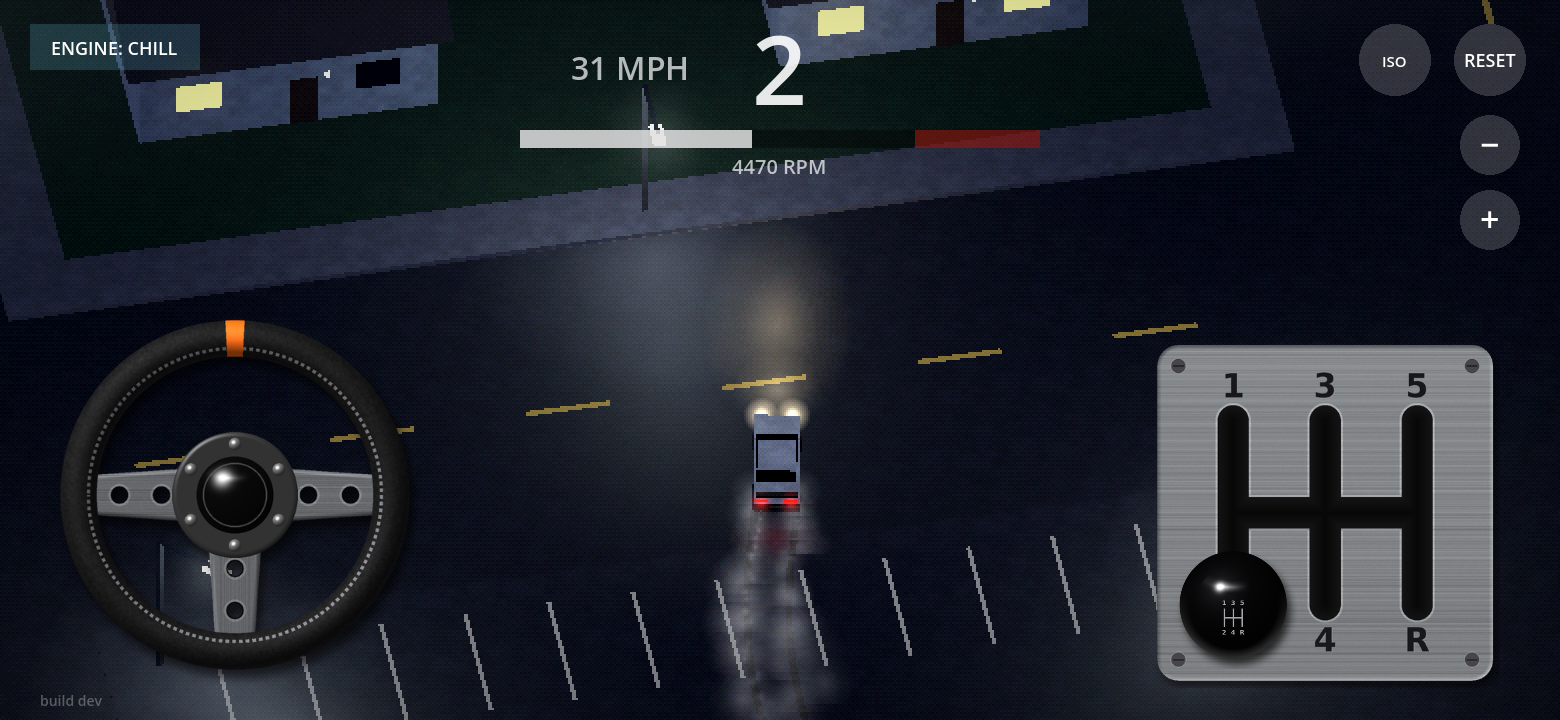
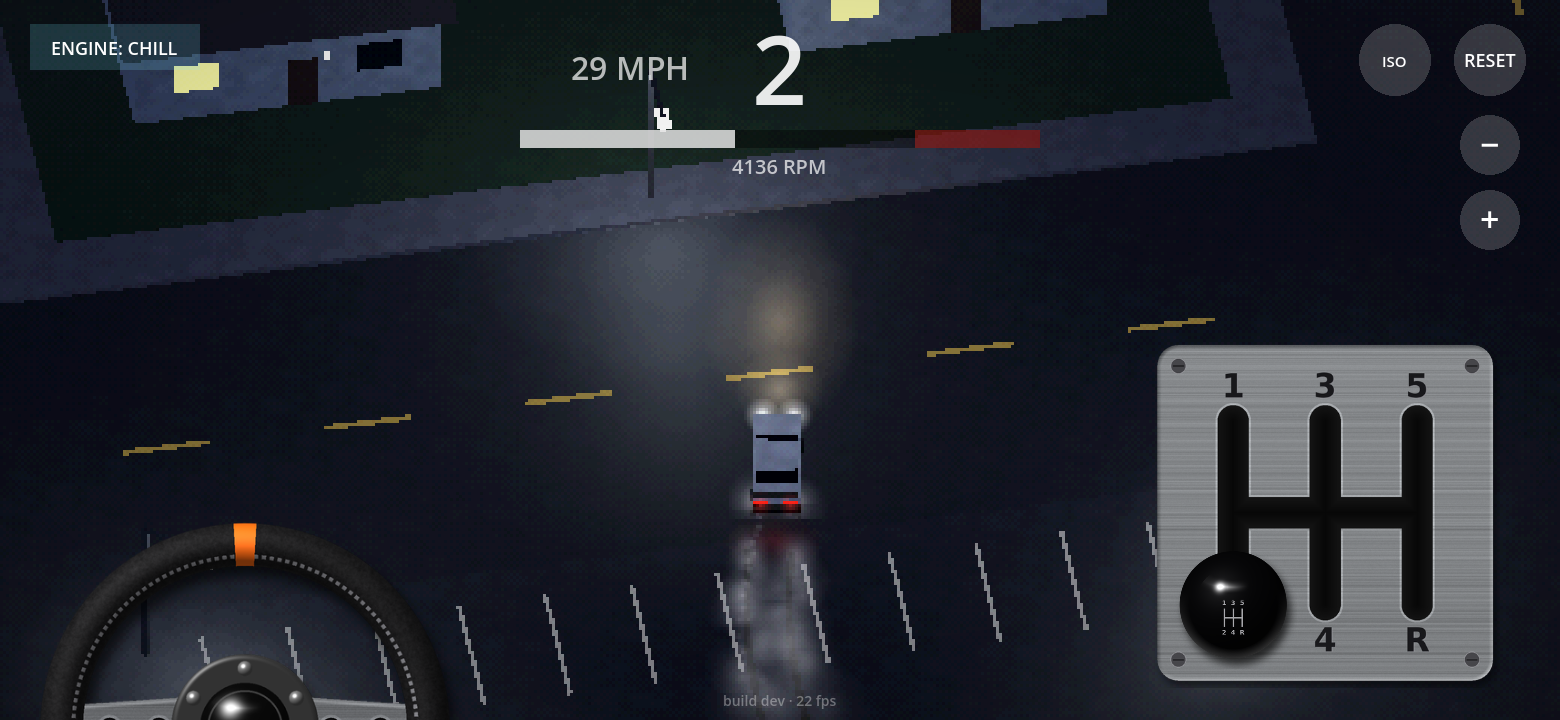
Smoother: easier flicks, half wheel, auto quality, cheaper rendering
- Flick threshold 0.22 -> 0.12 of lock and only twists away from centre count
  (letting the wheel spin back no longer kicks); kicks last a bit longer
- Steering wheel sits on the bottom edge with only the top half showing
- Auto quality: if fps stays under 50 the world drops to chunkier pixels
- Bloom off (~20% of frame time), street lights culled tighter (~15%),
  grit textures linearly filtered (no shimmer), cheaper dither shader
- FPS readout next to the build number

Claude-Session: https://claude.ai/code/session_01X5D3N9oUK59uFhYSHv3wU5

diff --git a/README.md b/README.md
@@ -30,7 +30,7 @@ Built in Godot 4.7.
 
 | | Touch | Keyboard | Gamepad (Thor) |
 |---|---|---|---|
-| Steer | Twist the wheel (bottom-left), two full turns each way like a real car. The orange arc shows how far you're turned. Let go and it spins back to center | A / D or arrows | Left stick |
+| Steer | Slide your thumb around the half wheel peeking up from the bottom-left, two full turns each way like a real car. The orange arc shows how far you're turned. Let go and it spins back to center | A / D or arrows | Left stick |
 | Shift | Drag the knob through the H gate (bottom-right) | 1-5, N or 0, R | R1 up / L1 down |
 | Kick the rear out | Flick the wheel quickly, or downshift while turning (no e-brake) | Space (or tap A/D) | B |
 | Camera | ISO / 3D button (top-right): flat isometric or perspective, both behind the car | V | Select |
